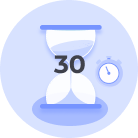
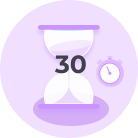
feat: 🎸 #44 이미지 변경 & category 파일로 뽑음
✅ Closes: #44

Former-commit-id: 6f751224f95489fe84e882c7eef9e68531816575 [formerly 0e81f983e740d98e5dd1a760824fa5e4b946e91b]
Former-commit-id: 1da59e5afbbf4c1fc446fc600d23f811749f9fe4

Changed region(s): [[0.2319, 0.1739, 0.8986, 0.9275]]

diff --git a/front/src/pages/Mypage/MyInfo/index.jsx b/front/src/pages/Mypage/MyInfo/index.jsx
@@ -11,6 +11,7 @@ import axios from "axios";
 import { getUser } from "modules/user/user";
 import FilterModal from "components/FilterModal";
 import "./style.scss";
+import { category } from "constants/category";
 
 import DefaultUserImage from "assets/user_globe.png";
 import A1 from "assets/A1.png";
@@ -50,107 +51,6 @@ export default function MyInfo({ myRecord, userCategory }) {
     fetchData();
     return () => {};
   }, []);
-
-  const category = [
-    null,
-    { c_id: 1, main: "life", sub: "business" },
-    { c_id: 2, main: "life", sub: "culture" },
-    { c_id: 3, main: "life", sub: "entertainment" },
-    { c_id: 4, main: "life", sub: "etc" },
-    { c_id: 5, main: "life", sub: "family" },
-    { c_id: 6, main: "life", sub: "fitness" },
-    { c_id: 7, main: "life", sub: "food" },
-    { c_id: 8, main: "life", sub: "health" },
-    { c_id: 9, main: "life", sub: "home" },
-    { c_id: 10, main: "life", sub: "movies" },
-    { c_id: 11, main: "life", sub: "music" },
-    { c_id: 12, main: "life", sub: "people" },
-    { c_id: 13, main: "life", sub: "pets" },
-    { c_id: 14, main: "life", sub: "real estate" },
-    { c_id: 15, main: "life", sub: "shopping" },
-    { c_id: 16, main: "life", sub: "style" },
-    { c_id: 17, main: "life", sub: "travel" },
-    { c_id: 18, main: "life", sub: "tv" },
-    { c_id: 19, main: "life", sub: "wedding" },
-    { c_id: 20, main: "news", sub: "columns" },
-    { c_id: 21, main: "news", sub: "etc" },
-    { c_id: 22, main: "news", sub: "factcheck" },
-    { c_id: 23, main: "news", sub: "nation" },
-    { c_id: 24, main: "news", sub: "opinion" },
-    { c_id: 25, main: "news", sub: "politics" },
-    { c_id: 26, main: "news", sub: "shows" },
-    { c_id: 27, main: "news", sub: "social" },
-    { c_id: 28, main: "other", sub: "auto" },
-    { c_id: 29, main: "other", sub: "business" },
-    { c_id: 30, main: "other", sub: "climate" },
-    { c_id: 31, main: "other", sub: "college" },
-    { c_id: 32, main: "other", sub: "companies" },
-    { c_id: 33, main: "other", sub: "covid-19" },
-    { c_id: 34, main: "other", sub: "economy" },
-    { c_id: 35, main: "other", sub: "education" },
-    { c_id: 36, main: "other", sub: "environment" },
-    { c_id: 37, main: "other", sub: "etc" },
-    { c_id: 38, main: "other", sub: "law" },
-    { c_id: 39, main: "other", sub: "science" },
-    { c_id: 40, main: "sport", sub: "gaelic-games" },
-    { c_id: 41, main: "sports", sub: "american-football" },
-    { c_id: 42, main: "sports", sub: "athletics" },
-    { c_id: 43, main: "sports", sub: "baseball" },
-    { c_id: 44, main: "sports", sub: "basketball" },
-    { c_id: 45, main: "sports", sub: "boxing" },
-    { c_id: 46, main: "sports", sub: "cricket" },
-    { c_id: 47, main: "sports", sub: "cycling" },
-    { c_id: 48, main: "sports", sub: "etc" },
-    { c_id: 49, main: "sports", sub: "fighting" },
-    { c_id: 50, main: "sports", sub: "football" },
-    { c_id: 51, main: "sports", sub: "golf" },
-    { c_id: 52, main: "sports", sub: "gymnastics" },
-    { c_id: 53, main: "sports", sub: "hockey" },
-    { c_id: 54, main: "sports", sub: "horseracing" },
-    { c_id: 55, main: "sports", sub: "motorsport" },
-    { c_id: 56, main: "sports", sub: "olympics" },
-    { c_id: 57, main: "sports", sub: "rugby" },
-    { c_id: 58, main: "sports", sub: "snooker" },
-    { c_id: 59, main: "sports", sub: "soccer" },
-    { c_id: 60, main: "sports", sub: "swimming" },
-    { c_id: 61, main: "sports", sub: "tennis" },
-    { c_id: 62, main: "tech", sub: "companies" },
-    { c_id: 63, main: "tech", sub: "etc" },
-    { c_id: 64, main: "tech", sub: "fbi" },
-    { c_id: 65, main: "tech", sub: "review" },
-    { c_id: 66, main: "tech", sub: "sns" },
-    { c_id: 67, main: "world", sub: "africa" },
-    { c_id: 68, main: "world", sub: "americas" },
-    { c_id: 69, main: "world", sub: "asia" },
-    { c_id: 70, main: "world", sub: "australia" },
-    { c_id: 71, main: "world", sub: "brazil" },
-    { c_id: 72, main: "world", sub: "canada" },
-    { c_id: 73, main: "world", sub: "china" },
-    { c_id: 74, main: "world", sub: "etc" },
-    { c_id: 75, main: "world", sub: "europe" },
-    { c_id: 76, main: "world", sub: "france" },
-    { c_id: 77, main: "world", sub: "germany" },
-    { c_id: 78, main: "world", sub: "hongkong" },
-    { c_id: 79, main: "world", sub: "india" },
-    { c_id: 80, main: "world", sub: "iran" },
-    { c_id: 81, main: "world", sub: "iraq" },
-    { c_id: 82, main: "world", sub: "israel" },
-    { c_id: 83, main: "world", sub: "italy" },
-    { c_id: 84, main: "world", sub: "japan" },
-    { c_id: 85, main: "world", sub: "lebanon" },
-    { c_id: 86, main: "world", sub: "mexico" },
-    { c_id: 87, main: "world", sub: "middle east" },
-    { c_id: 88, main: "world", sub: "north korea" },
-    { c_id: 89, main: "world", sub: "northern ireland" },
-    { c_id: 90, main: "world", sub: "russia" },
-    { c_id: 91, main: "world", sub: "saudiarabia" },
-    { c_id: 92, main: "world", sub: "south korea" },
-    { c_id: 93, main: "world", sub: "spain" },
-    { c_id: 94, main: "world", sub: "turkey" },
-    { c_id: 95, main: "world", sub: "uk" },
-    { c_id: 96, main: "world", sub: "ukraine" },
-    { c_id: 97, main: "world", sub: "us" },
-  ];
 
   const onChange = (e) => {
     const profileImg = e.target.files[0];

diff --git a/front/src/constants/category.js b/front/src/constants/category.js
@@ -1,0 +1,100 @@
+export const category = [
+  null,
+  { c_id: 1, main: "life", sub: "business" },
+  { c_id: 2, main: "life", sub: "culture" },
+  { c_id: 3, main: "life", sub: "entertainment" },
+  { c_id: 4, main: "life", sub: "etc" },
+  { c_id: 5, main: "life", sub: "family" },
+  { c_id: 6, main: "life", sub: "fitness" },
+  { c_id: 7, main: "life", sub: "food" },
+  { c_id: 8, main: "life", sub: "health" },
+  { c_id: 9, main: "life", sub: "home" },
+  { c_id: 10, main: "life", sub: "movies" },
+  { c_id: 11, main: "life", sub: "music" },
+  { c_id: 12, main: "life", sub: "people" },
+  { c_id: 13, main: "life", sub: "pets" },
+  { c_id: 14, main: "life", sub: "real estate" },
+  { c_id: 15, main: "life", sub: "shopping" },
+  { c_id: 16, main: "life", sub: "style" },
+  { c_id: 17, main: "life", sub: "travel" },
+  { c_id: 18, main: "life", sub: "tv" },
+  { c_id: 19, main: "life", sub: "wedding" },
+  { c_id: 20, main: "news", sub: "columns" },
+  { c_id: 21, main: "news", sub: "etc" },
+  { c_id: 22, main: "news", sub: "factcheck" },
+  { c_id: 23, main: "news", sub: "nation" },
+  { c_id: 24, main: "news", sub: "opinion" },
+  { c_id: 25, main: "news", sub: "politics" },
+  { c_id: 26, main: "news", sub: "shows" },
+  { c_id: 27, main: "news", sub: "social" },
+  { c_id: 28, main: "other", sub: "auto" },
+  { c_id: 29, main: "other", sub: "business" },
+  { c_id: 30, main: "other", sub: "climate" },
+  { c_id: 31, main: "other", sub: "college" },
+  { c_id: 32, main: "other", sub: "companies" },
+  { c_id: 33, main: "other", sub: "covid-19" },
+  { c_id: 34, main: "other", sub: "economy" },
+  { c_id: 35, main: "other", sub: "education" },
+  { c_id: 36, main: "other", sub: "environment" },
+  { c_id: 37, main: "other", sub: "etc" },
+  { c_id: 38, main: "other", sub: "law" },
+  { c_id: 39, main: "other", sub: "science" },
+  { c_id: 40, main: "sport", sub: "gaelic-games" },
+  { c_id: 41, main: "sports", sub: "american-football" },
+  { c_id: 42, main: "sports", sub: "athletics" },
+  { c_id: 43, main: "sports", sub: "baseball" },
+  { c_id: 44, main: "sports", sub: "basketball" },
+  { c_id: 45, main: "sports", sub: "boxing" },
+  { c_id: 46, main: "sports", sub: "cricket" },
+  { c_id: 47, main: "sports", sub: "cycling" },
+  { c_id: 48, main: "sports", sub: "etc" },
+  { c_id: 49, main: "sports", sub: "fighting" },
+  { c_id: 50, main: "sports", sub: "football" },
+  { c_id: 51, main: "sports", sub: "golf" },
+  { c_id: 52, main: "sports", sub: "gymnastics" },
+  { c_id: 53, main: "sports", sub: "hockey" },
+  { c_id: 54, main: "sports", sub: "horseracing" },
+  { c_id: 55, main: "sports", sub: "motorsport" },
+  { c_id: 56, main: "sports", sub: "olympics" },
+  { c_id: 57, main: "sports", sub: "rugby" },
+  { c_id: 58, main: "sports", sub: "snooker" },
+  { c_id: 59, main: "sports", sub: "soccer" },
+  { c_id: 60, main: "sports", sub: "swimming" },
+  { c_id: 61, main: "sports", sub: "tennis" },
+  { c_id: 62, main: "tech", sub: "companies" },
+  { c_id: 63, main: "tech", sub: "etc" },
+  { c_id: 64, main: "tech", sub: "fbi" },
+  { c_id: 65, main: "tech", sub: "review" },
+  { c_id: 66, main: "tech", sub: "sns" },
+  { c_id: 67, main: "world", sub: "africa" },
+  { c_id: 68, main: "world", sub: "americas" },
+  { c_id: 69, main: "world", sub: "asia" },
+  { c_id: 70, main: "world", sub: "australia" },
+  { c_id: 71, main: "world", sub: "brazil" },
+  { c_id: 72, main: "world", sub: "canada" },
+  { c_id: 73, main: "world", sub: "china" },
+  { c_id: 74, main: "world", sub: "etc" },
+  { c_id: 75, main: "world", sub: "europe" },
+  { c_id: 76, main: "world", sub: "france" },
+  { c_id: 77, main: "world", sub: "germany" },
+  { c_id: 78, main: "world", sub: "hongkong" },
+  { c_id: 79, main: "world", sub: "india" },
+  { c_id: 80, main: "world", sub: "iran" },
+  { c_id: 81, main: "world", sub: "iraq" },
+  { c_id: 82, main: "world", sub: "israel" },
+  { c_id: 83, main: "world", sub: "italy" },
+  { c_id: 84, main: "world", sub: "japan" },
+  { c_id: 85, main: "world", sub: "lebanon" },
+  { c_id: 86, main: "world", sub: "mexico" },
+  { c_id: 87, main: "world", sub: "middle east" },
+  { c_id: 88, main: "world", sub: "north korea" },
+  { c_id: 89, main: "world", sub: "northern ireland" },
+  { c_id: 90, main: "world", sub: "russia" },
+  { c_id: 91, main: "world", sub: "saudiarabia" },
+  { c_id: 92, main: "world", sub: "south korea" },
+  { c_id: 93, main: "world", sub: "spain" },
+  { c_id: 94, main: "world", sub: "turkey" },
+  { c_id: 95, main: "world", sub: "uk" },
+  { c_id: 96, main: "world", sub: "ukraine" },
+  { c_id: 97, main: "world", sub: "us" },
+];

diff --git a/front/src/pages/NationsNewsList/Globe/index.jsx b/front/src/pages/NationsNewsList/Globe/index.jsx
@@ -34,16 +34,16 @@ export default function Globe({ markers, selectedIdx, setReceiveIdx }) {
   }, [selectedIdx]);
 
   const onClickMarker = (marker, markerObject, event) => {
-    // console.log("event", event);
-    // console.log("marker", marker.id);
-    // console.log("markerObject", markerObject);
+    console.log("event", event);
+    console.log("marker", marker.id);
+    console.log("markerObject", markerObject);
     setEvent({
       type: "CLICK",
       marker,
       markerObjectID: markerObject.uuid,
       pointerEventPosition: { x: event.clientX, y: event.clientY },
     });
-    // setDetails(markerTooltipRenderer(marker));
+    setDetails(markerTooltipRenderer(marker));
     setReceiveIdx(marker.id);
   };
 
@@ -57,14 +57,14 @@ export default function Globe({ markers, selectedIdx, setReceiveIdx }) {
 
   return (
     <div className="globe-box">
-      {/* {details && (
+      {details && (
         <>
           <div className="nation-info-card">
             <img src={Kor} alt="" className="nation-info-flag" />
             <h1 className="nation-info-name">
               {markers[selectedIdx].city}, {markers[selectedIdx].kor}{" "}
             </h1>
-            <div className="nation-info-taglist">
+            {/* <div className="nation-info-taglist">
               <div className="nation-info-tag">
                 <b>#</b> &nbsp;수빈
               </div>
@@ -118,10 +118,10 @@ export default function Globe({ markers, selectedIdx, setReceiveIdx }) {
                   &nbsp; ▲
                 </div>
               </div>
-            </div>
+            </div> */}
           </div>
         </>
-      )} */}
+      )}
       <ReactGlobe
         height="100%"
         globeBackgroundTexture={null}

diff --git a/front/src/pages/Mypage/MyBadge/index.jsx b/front/src/pages/Mypage/MyBadge/index.jsx
@@ -10,9 +10,9 @@ import Attendance100 from "assets/100attendance_badge.png";
 import LevelA from "assets/A_level_badge.png";
 import LevelB from "assets/B_level_badge.png";
 import LevelC from "assets/C_level_badge.png";
-import GameClear50 from "assets/50game_clear.png";
+import GameClear90 from "assets/90game_clear.png";
+import GameClear60 from "assets/60game_clear.png";
 import GameClear30 from "assets/30game_clear.png";
-import GameClear10 from "assets/10game_clear.png";
 import NewsScrap1 from "assets/1news_scrap.png";
 import NewsScrap10 from "assets/10news_scrap.png";
 import NewsScrap50 from "assets/50news_scrap.png";
@@ -69,20 +69,20 @@ export default function MyBadge({ setBadgeLength }) {
     },
     {
       id: 7,
-      name: "게임 50초 이내 클리어",
-      img: GameClear50,
+      name: "게임 90초 이내 클리어",
+      img: GameClear90,
       isAchieve: false,
     },
     {
       id: 8,
-      name: "게임 30초 이내 클리어",
-      img: GameClear30,
+      name: "게임 60초 이내 클리어",
+      img: GameClear60,
       isAchieve: false,
     },
     {
       id: 9,
-      name: "게임 10초 이내 클리어",
-      img: GameClear10,
+      name: "게임 30초 이내 클리어",
+      img: GameClear30,
       isAchieve: false,
     },
     { id: 10, name: "뉴스 스크랩 1회", img: NewsScrap1, isAchieve: false },

diff --git a/front/src/components/BadgeModal/index.jsx b/front/src/components/BadgeModal/index.jsx
@@ -7,9 +7,9 @@ import Attendance100 from "assets/100attendance_badge.png";
 import LevelA from "assets/A_level_badge.png";
 import LevelB from "assets/B_level_badge.png";
 import LevelC from "assets/C_level_badge.png";
-import GameClear50 from "assets/50game_clear.png";
+import GameClear90 from "assets/90game_clear.png";
+import GameClear60 from "assets/60game_clear.png";
 import GameClear30 from "assets/30game_clear.png";
-import GameClear10 from "assets/10game_clear.png";
 import NewsScrap1 from "assets/1news_scrap.png";
 import NewsScrap10 from "assets/10news_scrap.png";
 import NewsScrap50 from "assets/50news_scrap.png";
@@ -28,9 +28,9 @@ export default function BadgeModal({ index, text, setStatus }) {
     LevelA,
     LevelB,
     LevelC,
-    GameClear50,
+    GameClear90,
+    GameClear60,
     GameClear30,
-    GameClear10,
     NewsScrap1,
     NewsScrap10,
     NewsScrap50,

diff --git a/front/src/pages/Mypage/MyInfo/style.scss b/front/src/pages/Mypage/MyInfo/style.scss
@@ -186,6 +186,7 @@
 
     .info-box {
       height: 26%;
+      margin-bottom: rem(50);
 
       .profile-img {
         height: 130px;
@@ -225,9 +226,6 @@
         .fa-pencil {
           font-size: rem(23);
         }
-      }
-
-      .list {
       }
     }
   }

diff --git a/front/src/components/FilterModal/style.scss b/front/src/components/FilterModal/style.scss
@@ -68,6 +68,9 @@
       align-items: start;
       padding: 0 rem(4);
 
+      @media (max-width: 480px) {
+        grid-row-gap: 10px;
+      }
       .sub-category-name {
         position: relative;
         @include FLEX-CENTER;
